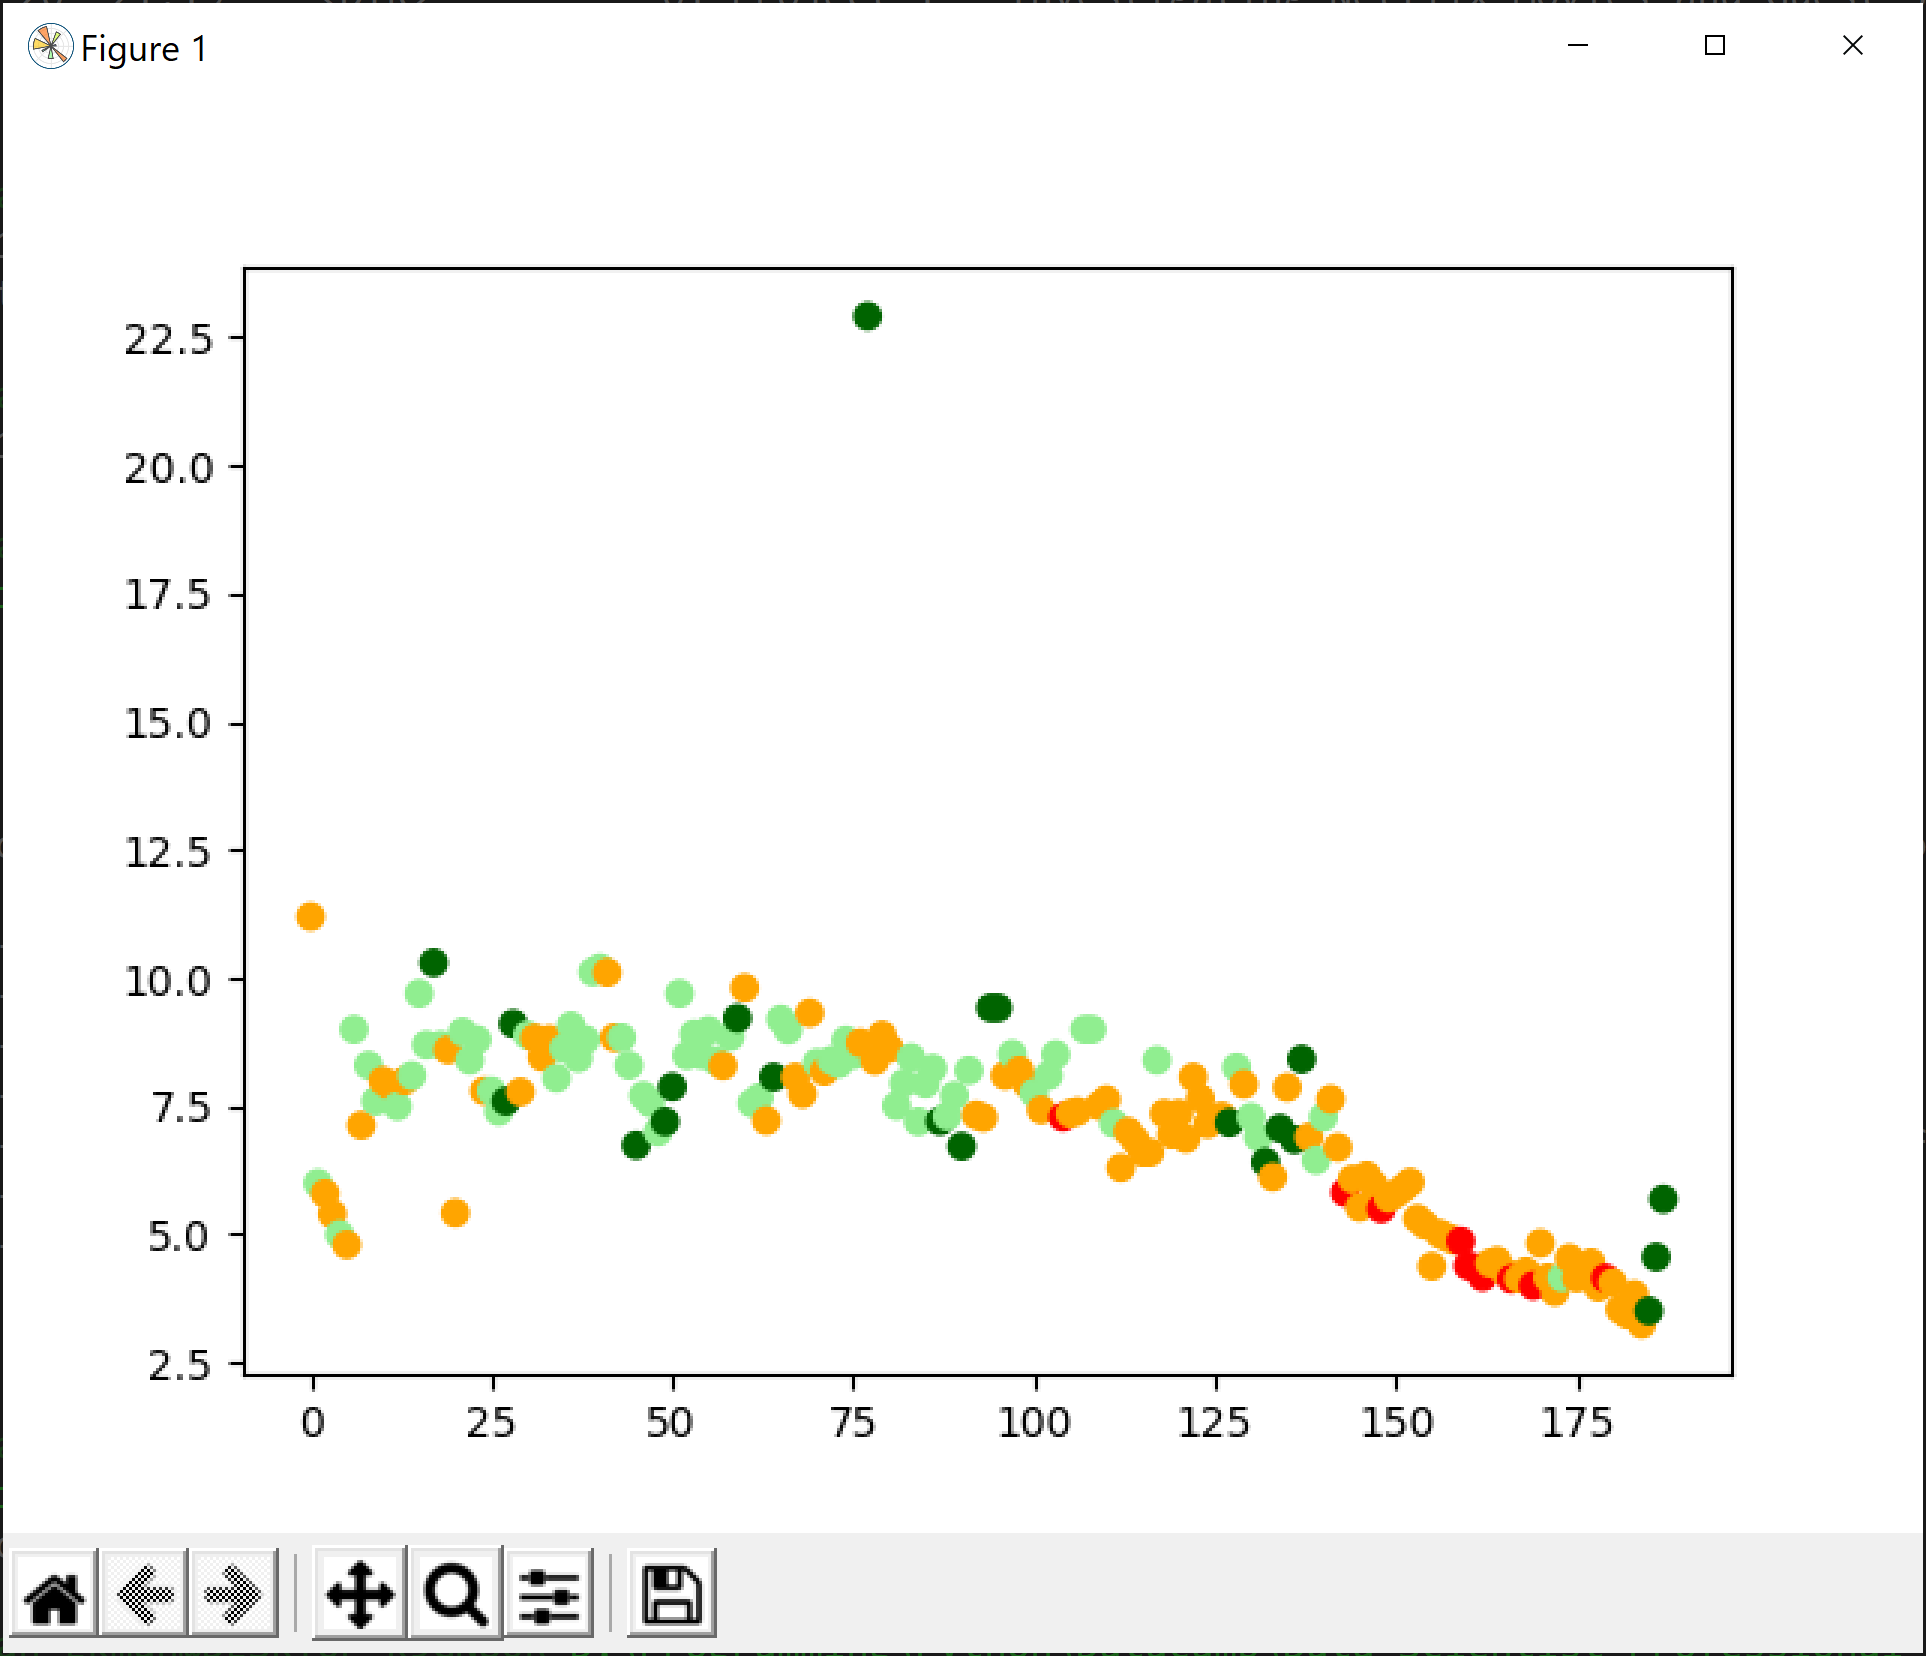
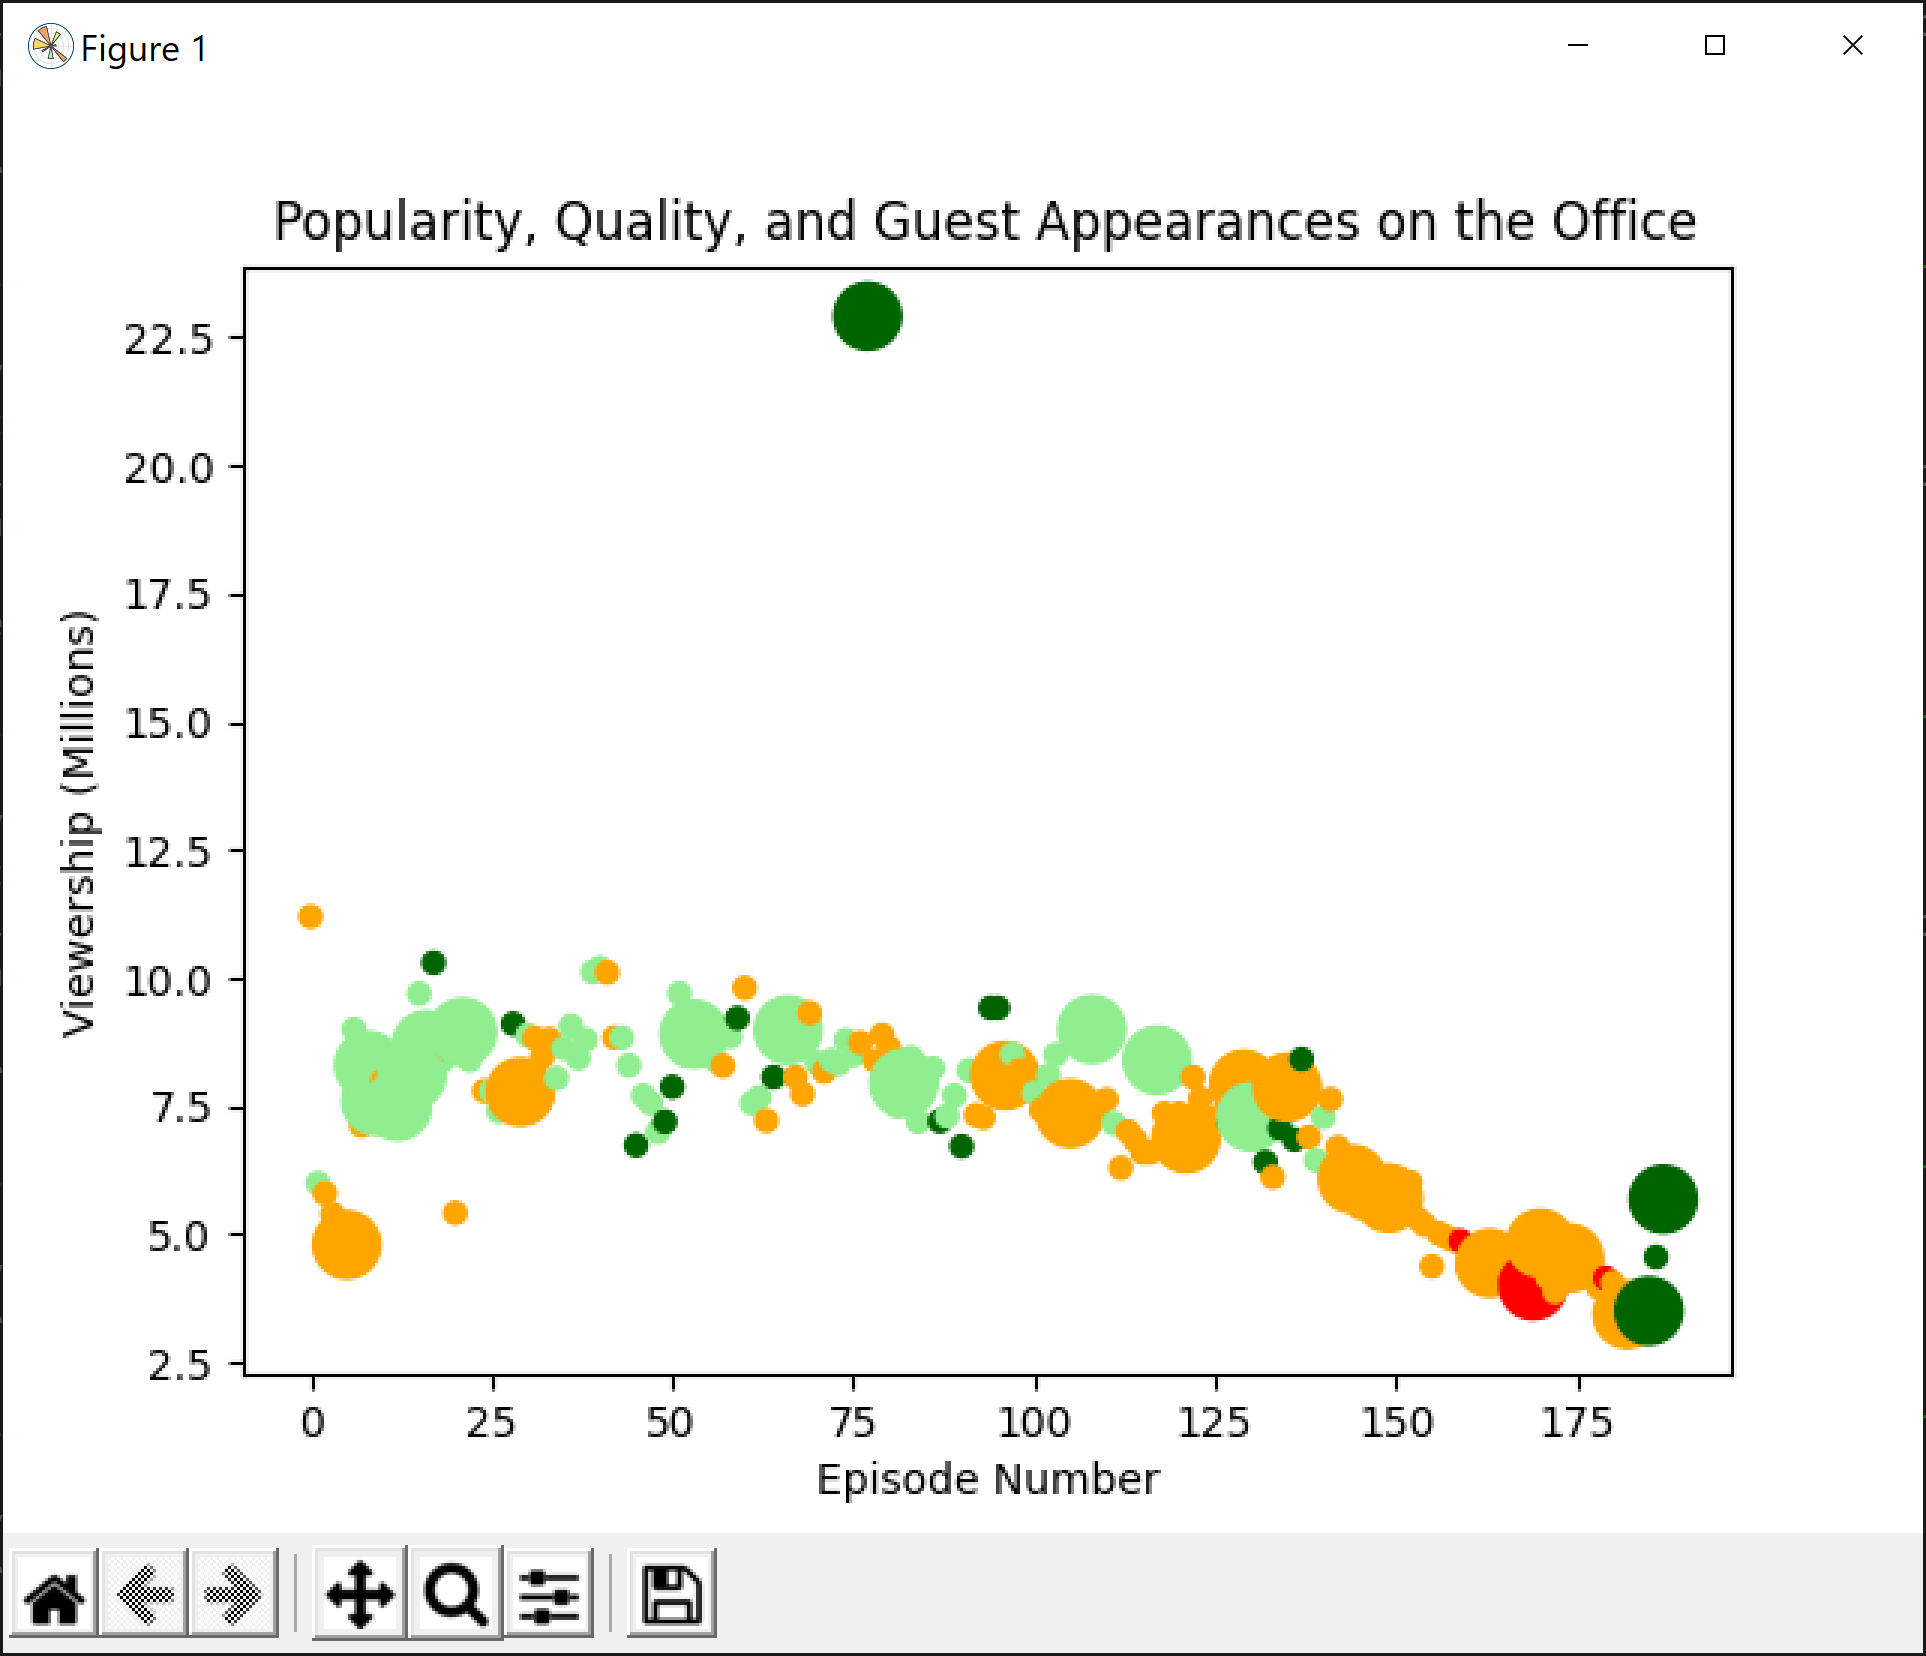
added labels and title etc to plot

diff --git a/Data Scientist Professional with Python/01 Project 1 - Investigating Netflix Movies and Guest Stars in The Office/project1.py b/Data Scientist Professional with Python/01 Project 1 - Investigating Netflix Movies and Guest Stars in The Office/project1.py
@@ -9,6 +9,7 @@ office_episodes = pd.read_csv('datasets/office_episodes.csv')
 episode_number = np.array(office_episodes['episode_number'])
 viewerships = np.array(office_episodes['viewership_mil'])
 scaled_ratings = np.array(office_episodes['scaled_ratings'])
+has_guests = np.array(office_episodes['has_guests'])
 
 # Create an array with correct coloring based on the scaled rating for each episode
 col =  np.empty([len(episode_number)], dtype=object)
@@ -17,6 +18,17 @@ col[np.logical_and(scaled_ratings >=0.25, scaled_ratings < 0.5)] = "orange"
 col[np.logical_and(scaled_ratings >=0.5, scaled_ratings < 0.75)] = "lightgreen"
 col[scaled_ratings >= 0.75] = "darkgreen"
 
+# Create an array with correct bubble size based on guest appearances for each episode
+size =  np.zeros([len(episode_number)])
+size[has_guests == True] = 250
+size[has_guests == False] = 25
+
+# Have to calculate this index nicer...
+print(np.where(viewerships == viewerships.max()))
+
 # Configure scatterplot and show
-plt.scatter(episode_number, viewerships, c=col)
+plt.scatter(episode_number, viewerships, s=size, c=col)
+plt.title("Popularity, Quality, and Guest Appearances on the Office")
+plt.xlabel("Episode Number")
+plt.ylabel("Viewership (Millions)")
 plt.show()
